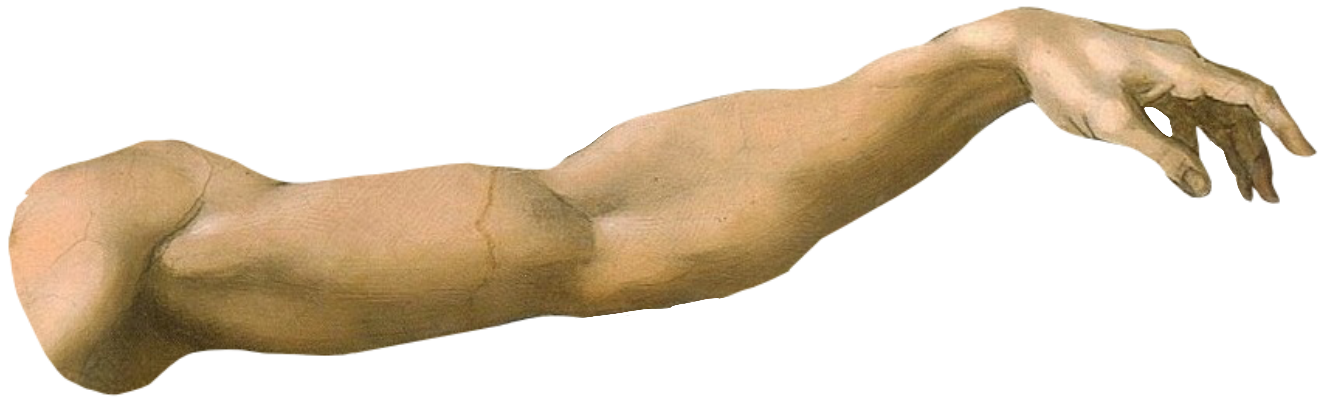
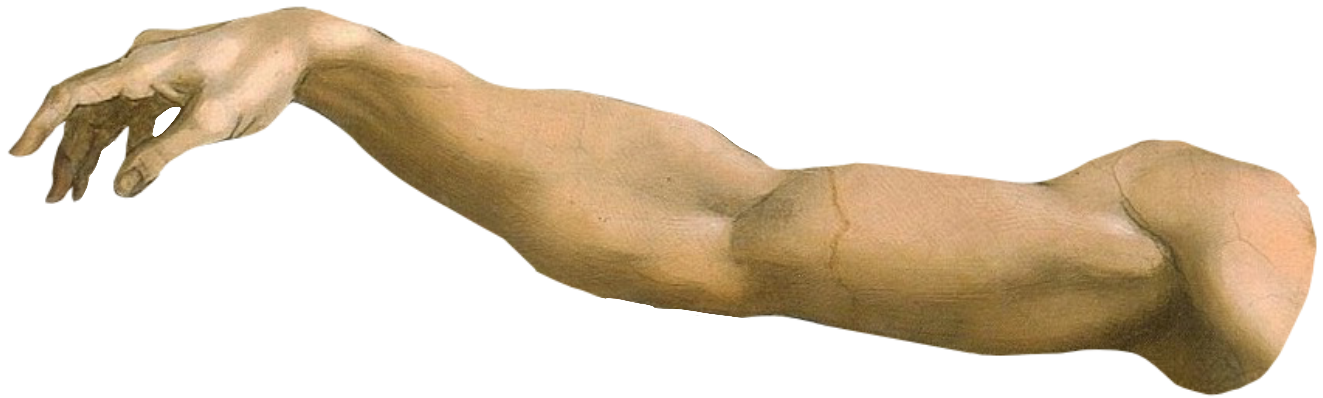
Update Responsive

diff --git a/stylesheet.css b/stylesheet.css
@@ -1188,10 +1188,6 @@ img.pos-mock-10{
 	animation: arrowLeftIn 1.5s;
 	animation-fill-mode: forwards;
 }
-.arrow.right:hover{
-	animation: arrowRightIn 1.5s;
-	animation-fill-mode: forwards;
-}
 .arrow.right{
 	padding-right: 10vh;
 	cursor: pointer;
@@ -1199,13 +1195,17 @@ img.pos-mock-10{
 	animation-fill-mode: forwards;
 	display: flex; align-items: center;
 }
+.arrow.right:hover{
+	animation: arrowRightIn 1.5s;
+	animation-fill-mode: forwards;
+}
 @keyframes arrowRightOut {
-	0%{transform: translateX(0px);}
-	100%{transform: translateX(-15px);}
+	0%{transform: translateX(15px);}
+	100%{transform: translateX(0px);}
 }
 @keyframes arrowRightIn {
-	0%{transform: translateX(-15px);}
-	100%{transform: translateX(0px);}
+	0%{transform: translateX(0px);}
+	100%{transform: translateX(15px);}
 }
 @keyframes arrowUpIn {
 	0%{transform: translateY(0px);}
@@ -1387,6 +1387,23 @@ img.pos-mock-10{
 	box-shadow: none;
 	transition: 0.5s;
 }
+
+.armAnim{
+	position: absolute;
+	width: 30vw;
+	right: -100px;
+	top: -100px;
+	transform-origin: top right;
+	animation: armAnimation 1s;
+	animation-fill-mode: forwards;
+}
+
+@keyframes armAnimation {
+	0%{transform: rotate(-90deg)}
+	70%{transform: rotate(-43deg)}
+	100%{transform: rotate(-45deg)}
+}
+
 @keyframes arrow {
 	0% {
 		opacity: 1;
@@ -1560,6 +1577,9 @@ img.pos-mock-10{
 
 /*สำหรับ mobile*/
 @media (max-width: 768px) {
+	.pos-arrowCenter.main{
+		top: -100px;
+	}
 	.mob-mock-info-container{
 		width: 100%;
 		height: 25vh;
@@ -1608,7 +1628,7 @@ img.pos-mock-10{
 		height: 0;
 		right: 0;*/
 		background-color: #1a1919; position: fixed; height: 100vh; top: 0; width: 100%; z-index: 999;
-		right: -100vw;
+		right: -110%;
 		transition: 1s;
 	}
 	.mini-nav-bar.active{
@@ -1616,6 +1636,7 @@ img.pos-mock-10{
 		animation-fill-mode: forwards;*/
 		right: 0;
 		transition: 1s;
+
 	}
 	.mini-nav-bar p{
 		font-size: 5vw;
@@ -2115,6 +2136,13 @@ img.pos-mock-10{
 	.arrow.down.center{
 		right: 47%;
 	}
+	.arrowImg{
+		width:30px; 
+		height:30px;
+	}
+	.arrow p{
+		font-size: 15px;
+	}
 
 	.mob-nav-logo{
 		width: 100%; display: -webkit-flex; -webkit-justify-content: end;
@@ -2303,5 +2331,13 @@ img.pos-mock-10{
 	}
 	.mob-mock.active, .mob-thing.active{
 		filter: drop-shadow(0px 0px 7px #FD2D2D );
+	}
+	.armAnim{
+		width: 0;
+		height: 0;
+		display: none;
+		top: 0;
+		right: 0;
+		animation: none;
 	}
   }

diff --git a/dangerous_prevent.html b/dangerous_prevent.html
@@ -51,7 +51,8 @@
             <a href="./dangerous_prevent.html"><p class="mini-nav-content">เเยกของอันตรายด้วยมือเรา</p></a>
             <a href="./game.html"><p class="mini-nav-content">เกม</p></a>
         </div>
-
+        
+        <img class="armAnim" src="./CA/แยกของอันตราย/แขน.PNG">
         <section class="flex-top_down-parent" id="section-main-info">
             <div class="sub-container">
                 <div class="mob-sub-container">

diff --git a/index.html b/index.html
@@ -265,7 +265,7 @@
         </section>
 
         <footer>
-            <div class="pos-arrowCenter">
+            <div class="pos-arrowCenter main">
                 <a href="#section-main" class="arrow up" style="z-index: 1;"><img src="./img/chevron-up.svg" class="pos-mainpage arrowImg"><p>กลับขึ้นด้านบน</p></a>
             </div>
             <div class="pos-arrowRight">
